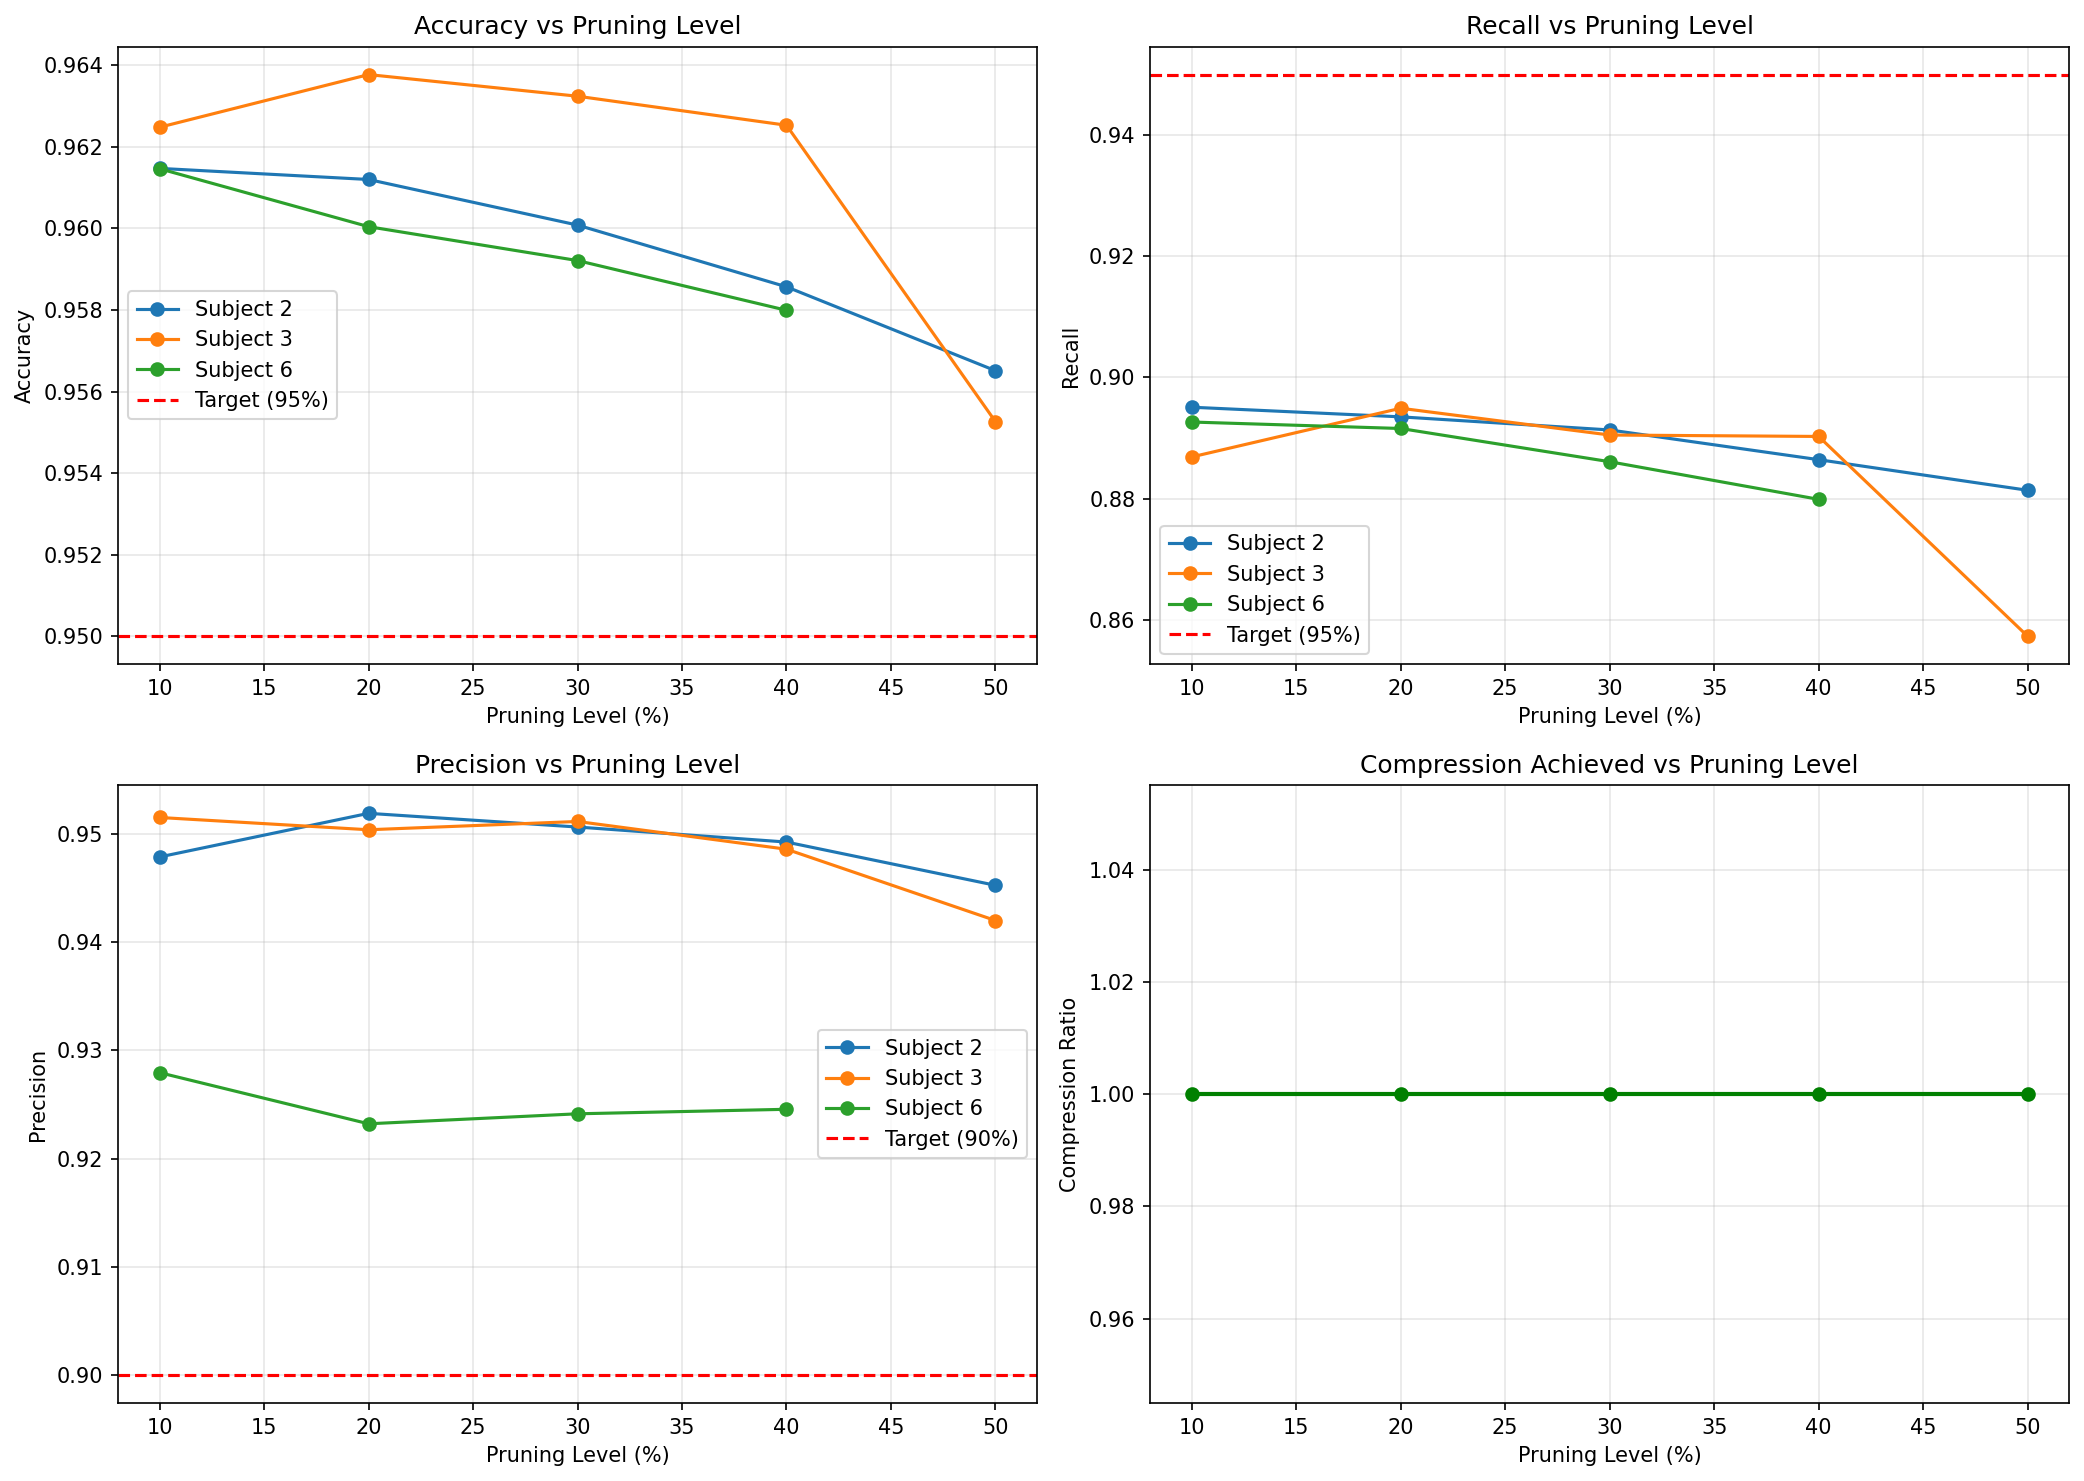
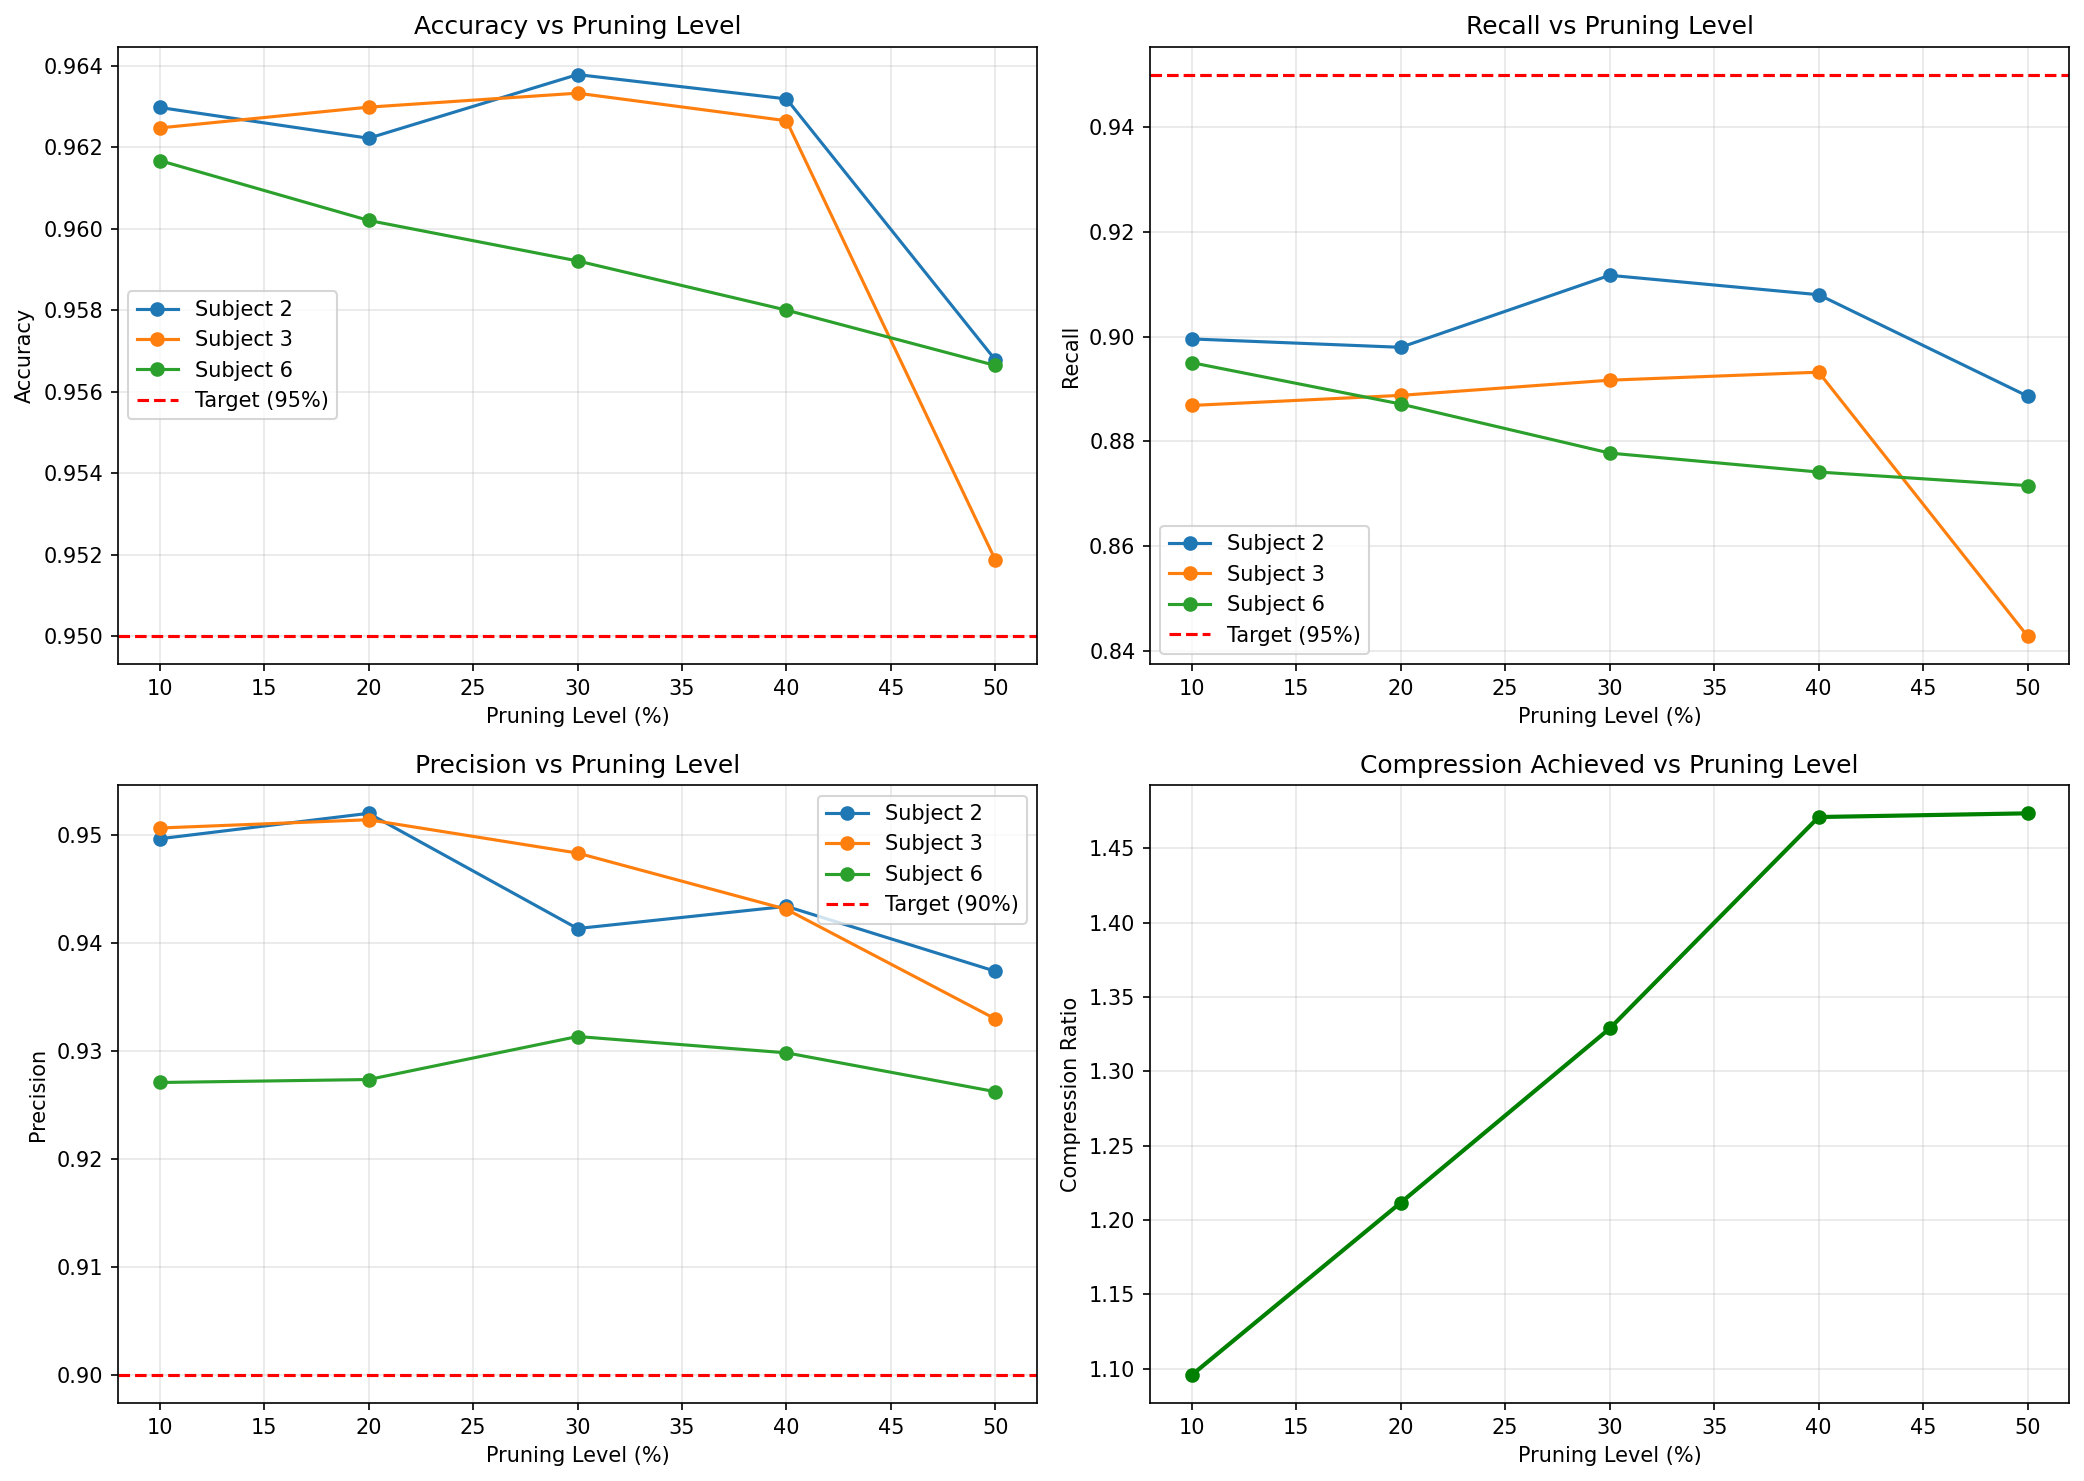
Update pruning results and analysis files
- Modified `pruning_all_results.csv` to reflect updated accuracy, recall, precision, and size metrics after pruning experiments.
- Updated `pruning_summary_by_level.csv` to include new statistics for pruning percentages 10%, 20%, 30%, 40%, and 50%.
- Changed `pruning_analysis.png` to reflect the latest visual analysis of pruning results.

diff --git a/find_best_pruning.py b/find_best_pruning.py
@@ -6,11 +6,8 @@ Multi-objective optimization: maximize compression + minimize performance drop.
 
 import pandas as pd
 import matplotlib.pyplot as plt
-import seaborn as sns
 import numpy as np
 from pathlib import Path
-
-sns.set_style("whitegrid")
 
 def collect_results(base_dir='outputs/pruning'):
     """Collect all pruning results."""
@@ -31,7 +28,7 @@ def collect_results(base_dir='outputs/pruning'):
         results.append(df)
 
     all_results = pd.concat(results, ignore_index=True)
-    print(f"✓ Collected {len(results)} experiments")
+    print(f"[+] Collected {len(results)} experiments")
     return all_results
 
 def calculate_performance_score(df):
@@ -391,7 +388,7 @@ def generate_summary(df, scores_df, best_prune):
     # Best pruning level
     best_row = scores_df[scores_df['prune_percent'] == best_prune].iloc[0]
 
-    lines.append("★★★ OPTIMAL PRUNING LEVEL ★★★")
+    lines.append("*** OPTIMAL PRUNING LEVEL ***")
     lines.append("")
     lines.append(f"  >>> {best_prune}% PRUNING <<<")
     lines.append("")
@@ -420,7 +417,7 @@ def generate_summary(df, scores_df, best_prune):
     ranked = scores_df.sort_values('overall_score', ascending=False).reset_index(drop=True)
     for idx, row in ranked.iterrows():
         rank = idx + 1
-        marker = " ← BEST" if row['prune_percent'] == best_prune else ""
+        marker = " <-- BEST" if row['prune_percent'] == best_prune else ""
         lines.append(f"{rank:<6} {int(row['prune_percent'])}%{'':<8} "
                     f"{row['overall_score']:<10.2f} {row['compression']:<13.2f}x "
                     f"{row['recall']:<12.2f}% {row['accuracy']:<12.2f}% {row['precision']:<12.2f}%{marker}")
@@ -429,9 +426,9 @@ def generate_summary(df, scores_df, best_prune):
     lines.append("="*100)
     lines.append("")
     lines.append(f"RECOMMENDATION: Use {best_prune}% pruning")
-    lines.append(f"  → Best balance between compression ({best_row['compression']:.2f}x) and performance preservation")
-    lines.append(f"  → Minimal performance drop (Recall: {best_row['recall_drop']:+.2f}%, Accuracy: {best_row['acc_drop']:+.2f}%)")
-    lines.append(f"  → Reduces model size by {(baseline_size - best_row['size_kb'])/baseline_size*100:.1f}%")
+    lines.append(f"  -> Best balance between compression ({best_row['compression']:.2f}x) and performance preservation")
+    lines.append(f"  -> Minimal performance drop (Recall: {best_row['recall_drop']:+.2f}%, Accuracy: {best_row['acc_drop']:+.2f}%)")
+    lines.append(f"  -> Reduces model size by {(baseline_size - best_row['size_kb'])/baseline_size*100:.1f}%")
     lines.append("="*100)
 
     return "\n".join(lines)
@@ -451,7 +448,7 @@ def main():
     best_prune = scores_df.loc[scores_df['overall_score'].idxmax(), 'prune_percent']
     best_prune = int(best_prune)
 
-    print(f"✓ Best pruning level: {best_prune}%")
+    print(f"[+] Best pruning level: {best_prune}%")
 
     output_dir = Path('outputs/pruning_analysis')
     output_dir.mkdir(exist_ok=True)
@@ -459,20 +456,20 @@ def main():
     # Save results
     df.to_csv(output_dir / 'all_results.csv', index=False)
     scores_df.to_csv(output_dir / 'scores.csv', index=False)
-    print(f"✓ Saved: {output_dir / 'all_results.csv'}")
-    print(f"✓ Saved: {output_dir / 'scores.csv'}")
+    print(f"[+] Saved: {output_dir / 'all_results.csv'}")
+    print(f"[+] Saved: {output_dir / 'scores.csv'}")
 
     # Generate summary
     summary = generate_summary(df, scores_df, best_prune)
     with open(output_dir / 'SUMMARY.txt', 'w') as f:
         f.write(summary)
-    print(f"✓ Saved: {output_dir / 'SUMMARY.txt'}")
+    print(f"[+] Saved: {output_dir / 'SUMMARY.txt'}")
 
     # Create visualization
     print("\nGenerating visualization...")
     fig = plot_comprehensive_analysis(df, scores_df, best_prune)
     fig.savefig(output_dir / 'optimal_pruning_analysis.png', dpi=300, bbox_inches='tight')
-    print(f"✓ Saved: {output_dir / 'optimal_pruning_analysis.png'}")
+    print(f"[+] Saved: {output_dir / 'optimal_pruning_analysis.png'}")
 
     print("")
     print(summary)

diff --git a/analyze_pruning_results.py b/analyze_pruning_results.py
@@ -66,7 +66,7 @@ def main():
 
     # Check if Dean's targets are met
     print("\n" + "="*70)
-    print("DEAN'S TARGETS CHECK (Recall ≥95%, Precision ≥90%)")
+    print("DEAN'S TARGETS CHECK (Recall >=95%, Precision >=90%)")
     print("="*70)
 
     for prune_pct in sorted(df['prune_pct'].unique()):
@@ -76,9 +76,9 @@ def main():
         meets_recall = recall_mean >= 0.95
         meets_precision = precision_mean >= 0.90
 
-        status = "✓ PASS" if (meets_recall and meets_precision) else "✗ FAIL"
-        print(f"{prune_pct}% pruning: Recall={recall_mean:.4f} {'✓' if meets_recall else '✗'}, "
-              f"Precision={precision_mean:.4f} {'✓' if meets_precision else '✗'} - {status}")
+        status = "[PASS]" if (meets_recall and meets_precision) else "[FAIL]"
+        print(f"{prune_pct}% pruning: Recall={recall_mean:.4f} {'[+]' if meets_recall else '[-]'}, "
+              f"Precision={precision_mean:.4f} {'[+]' if meets_precision else '[-]'} - {status}")
 
     # Best configuration
     print("\n" + "="*70)
